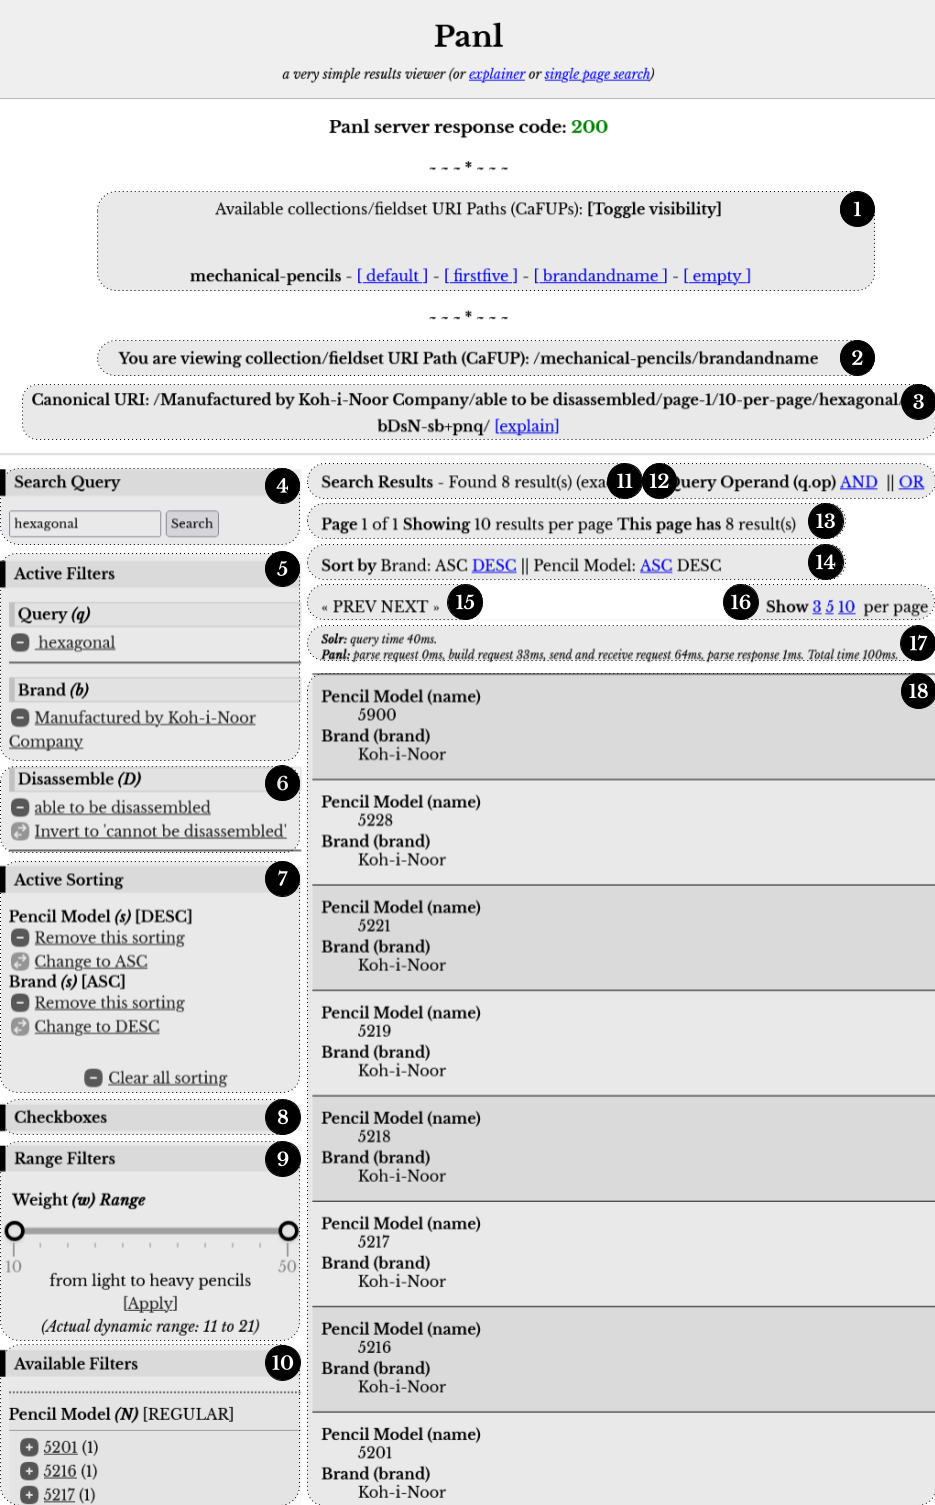
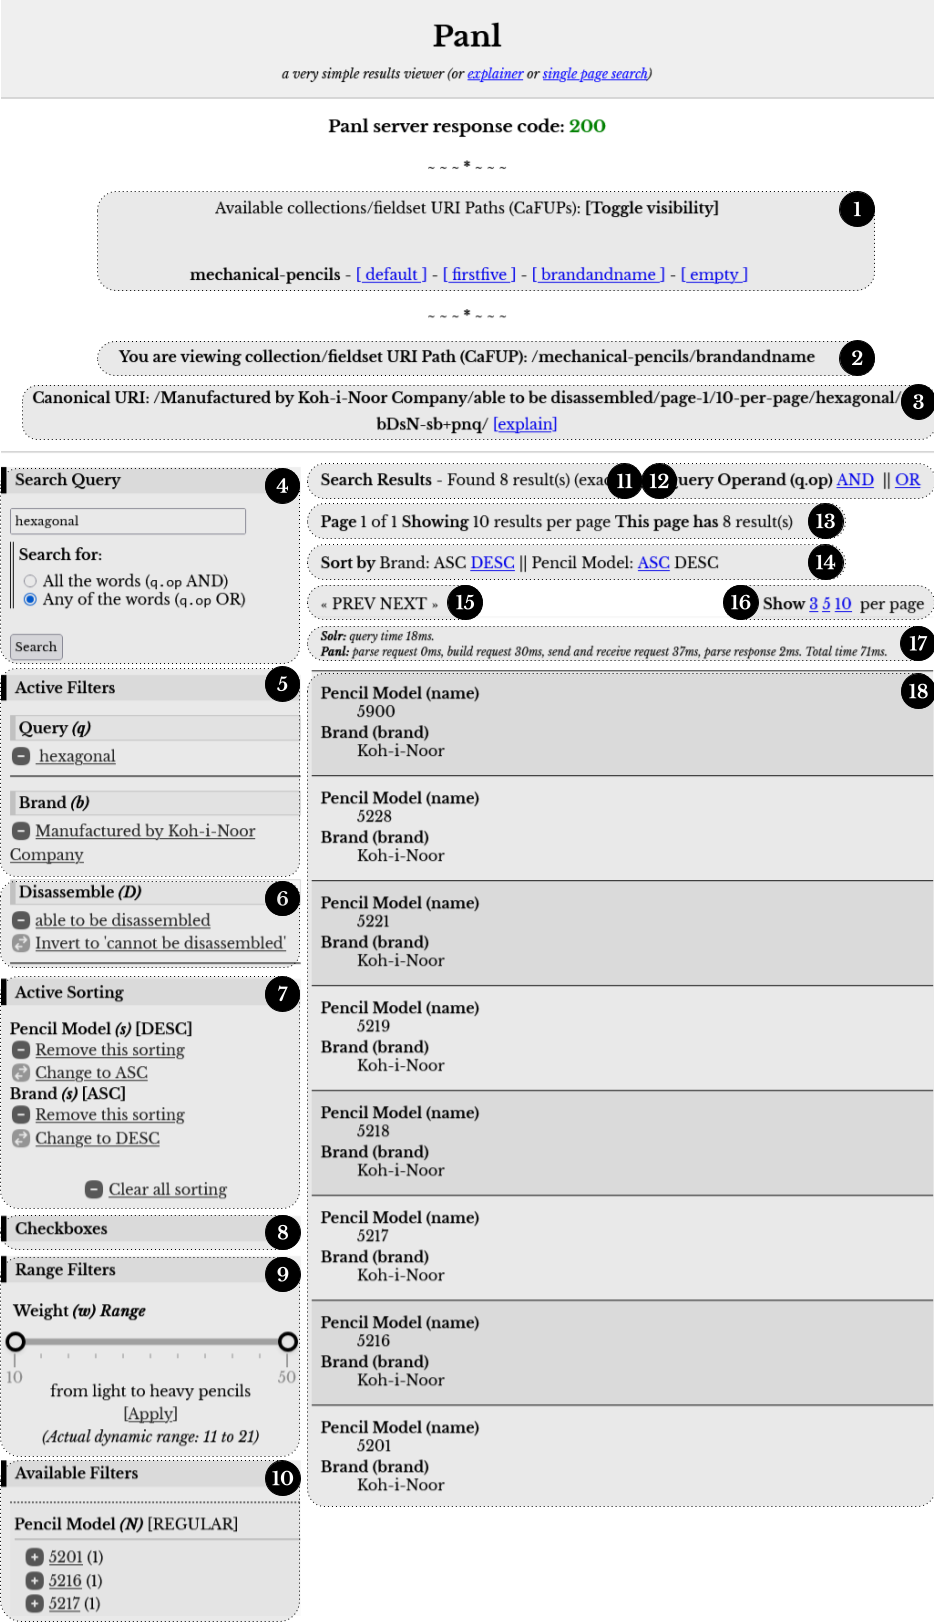
updated images for documentation

Changed region(s): [[0.0, 0.0, 1.0, 1.0], [0.9004, 0.0937, 0.9625, 0.1561], [0.9625, 0.9993, 0.9936, 1.0]]

diff --git a/src/main/resources/webapp/viewer/index.html b/src/main/resources/webapp/viewer/index.html
@@ -54,11 +54,11 @@
 						<p>Search for:</p>
 						<div>
 							<input type="radio" id="op_AND" name="op" value="+">
-							<label for="op_AND">All the words (AND)</label>
+							<label for="op_AND">All the words (<code>q.op</code> AND)</label>
 						</div>
 						<div>
 							<input type="radio" id="op_OR" name="op" value="-">
-							<label for="op_OR">Any of the words (<code>q.op</code>OR)</label>
+							<label for="op_OR">Any of the words (<code>q.op</code> OR)</label>
 						</div>
 					</div>
 					<div id="search-checkboxes"></div>
